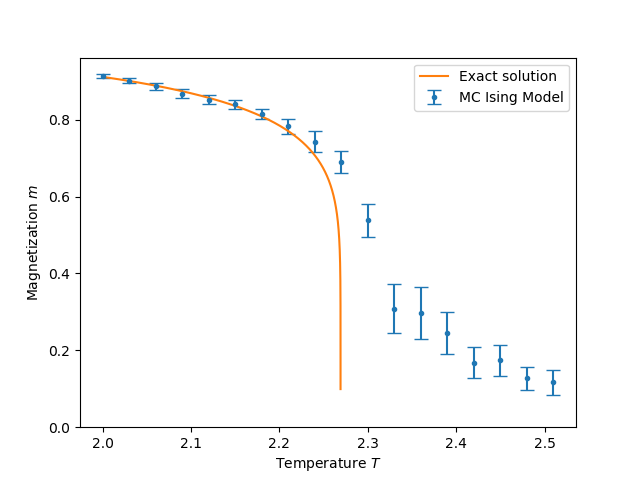
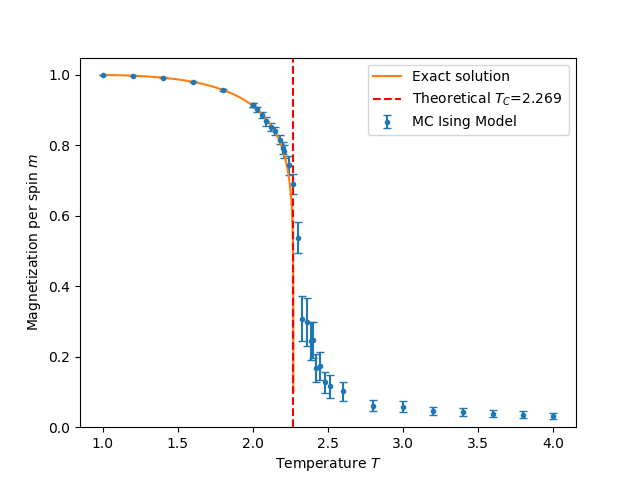
updated the plot making

diff --git a/src/data_analysis.py b/src/data_analysis.py
@@ -25,85 +25,118 @@ def powerlaw(t,a,b):
 def func_linear(x,a,b):
     return a + b*x
 
-def find_critical_exponents(reduced_temperature, quantity_data, error_quantity_data):
+def find_critical_exponents(temperature, quantity_data, error_quantity_data):
+    Tc = 2.269
+    mask = (temperature<Tc)
+    temperature = temperature[mask]
+    quantity_data = quantity_data[mask]
+    error_quantity_data = error_quantity_data[mask]
+    reduced_temperature = np.abs(temperature-Tc)
     "Linear log-log fit to the given quantity. Used to obtain critical exponents"
     xdata  = np.log(reduced_temperature)
     ydata  = np.log(quantity_data)
     yerror = np.log(error_quantity_data)
     popt, pcov = curve_fit(func_linear, xdata, ydata, sigma=yerror, bounds=([-np.inf,-5.],[np.inf,5.]))
     perr = np.sqrt(np.diag(pcov))
-    print(popt, perr)
+    # print(popt, perr)
     print("critical exponent = ",popt[1], "+-",perr[1])
     plt.figure()
     plt.errorbar(x=reduced_temperature, y=quantity_data, yerr=error_quantity_data, marker=".",linestyle="")
     plt.plot(reduced_temperature, np.exp(func_linear(np.log(reduced_temperature), *popt)))
     plt.plot(reduced_temperature, np.exp(func_linear(np.log(reduced_temperature), popt[0]+perr[0], popt[1]-perr[1])), linestyle='dashed', color='red')
     plt.plot(reduced_temperature, np.exp(func_linear(np.log(reduced_temperature), popt[0]-perr[0], popt[1]+perr[1])), linestyle='dashed', color='red')
+    plt.xlabel(r"$|T-Tc|$")
     plt.show()
     return popt[1], perr[1]
 
 def exact_magnetization(temperature):
     return (1. - (np.sinh(2./temperature))**-4 )**(1./8.)
 
-path="generated\\data\\2021-04-22t005212292006\\"
-filename_tau= "taut.npy"
-filename_m = "mt.npy"
-filename_e = "et.npy"
-filename_chi= "chit.npy"
-filename_c = "ct.npy"
+mainpath="generated\\data\\"
+folders = ["2021-04-22t005212292006\\", "2021-04-22t003241375617\\"]
+temperature= np.array([])
+tau= np.array([])
+magnetization= np.array([])
+energy= np.array([])
+magnetic_susceptibility = np.array([])
+specific_heat =np.array([])
 
-settings = load_json(path, "settings.json")
-temperature = np.arange(settings["tmin"], settings["tmax"] + settings["t_step_size"]/2., settings["t_step_size"])
-#temperature = np.arange(settings["tmin"], settings["tmax"], settings["t_step_size"])
-tau, error_tau = np.load(path+filename_tau)[:,0],np.load(path+filename_tau)[:,1]
-magnetization, error_magnetization = np.load(path+filename_m)[:,0],np.load(path+filename_m)[:,1]
-energy, error_energy = np.load(path+filename_e)[:,0],np.load(path+filename_e)[:,1]
-magnetic_suscepticility, error_magnetic_suscepticility = np.load(path+filename_chi)[:,0],np.load(path+filename_chi)[:,1]
-specific_heat, error_specific_heat = np.load(path+filename_c)[:,0],np.load(path+filename_c)[:,1]
+error_temperature= np.array([])
+error_tau= np.array([])
+error_magnetization= np.array([])
+error_energy= np.array([])
+error_magnetic_susceptibility = np.array([])
+error_specific_heat =np.array([])
+
+for folder in folders:
+    path = mainpath+folder
+    filename_tau= "taut.npy"
+    filename_m = "mt.npy"
+    filename_e = "et.npy"
+    filename_chi= "chit.npy"
+    filename_c = "ct.npy"
+    
+    settings = load_json(path, "settings.json")
+    temperature                                            = np.append(temperature,             np.arange(settings["tmin"], settings["tmax"] + settings["t_step_size"]/2., settings["t_step_size"]) )
+    tau, error_tau                                         = np.append(tau,                     np.load(path+filename_tau)[:,0]) ,np.append(error_tau,                      np.load(path+filename_tau)[:,1])
+    magnetization, error_magnetization                     = np.append(magnetization,           np.load(path+filename_m)[:,0])   ,np.append(error_magnetization,            np.load(path+filename_m)[:,1] )
+    energy, error_energy                                   = np.append(energy,                  np.load(path+filename_e)[:,0])   ,np.append(error_energy,                   np.load(path+filename_e)[:,1])
+    magnetic_susceptibility, error_magnetic_susceptibility = np.append(magnetic_susceptibility, np.load(path+filename_chi)[:,0]) ,np.append(error_magnetic_susceptibility,  np.load(path+filename_chi)[:,1])
+    specific_heat, error_specific_heat                     = np.append(specific_heat,           np.load(path+filename_c)[:,0])   ,np.append(error_specific_heat,            np.load(path+filename_c)[:,1])
 
 continuous_step_size = 0.001*settings["t_step_size"]
 continuous_temperature = np.append(np.arange(settings["tmin"], 2.265, continuous_step_size), np.arange(2.265,2.27,0.00000001))
 
 m="."
 ls=""
-cs=5
+cs=3
 
 plt.figure()
-plt.errorbar(x=temperature, y=tau, yerr= error_tau, marker=m, linestyle=ls, capsize=cs)
+plt.errorbar(x=temperature, y=tau, yerr= error_tau, marker=m, linestyle=ls, capsize=cs, label="MC Ising Model")
+plt.axvline(2.269, color="red", ls="dashed", label=r"Theoretical $T_C$=2.269 ")
 plt.xlabel(r"Temperature $T$")
 plt.ylabel(r"Correlation time $\tau$")
+plt.legend()
 plt.savefig("figures\\correlation_time.png")
 
 plt.figure()
 plt.errorbar(x=temperature, y=magnetization, yerr= error_magnetization, marker=m, linestyle=ls, capsize=cs, label="MC Ising Model")
 plt.plot(continuous_temperature, exact_magnetization(continuous_temperature), label="Exact solution")
+plt.axvline(2.269, color="red", ls="dashed", label=r"Theoretical $T_C$=2.269 ")
 plt.xlabel(r"Temperature $T$")
-plt.ylabel(r"Magnetization $m$")
+plt.ylabel(r"Magnetization per spin $m$")
 plt.legend()
 plt.axis(ymin=0)
 plt.savefig("figures\\magnetization.png")
 
 plt.figure()
-plt.errorbar(x=temperature, y=energy, yerr= error_energy, marker=m, linestyle=ls, capsize=cs)
+plt.errorbar(x=temperature, y=energy, yerr= error_energy, marker=m, linestyle=ls, capsize=cs, label="MC Ising Model")
+plt.axvline(2.269, color="red", ls="dashed", label=r"Theoretical $T_C$=2.269 ")
 plt.xlabel(r"Temperature $T$")
-plt.ylabel(r"Energy $e$")
+plt.ylabel(r"Energy per spin $e$")
+plt.legend()
 plt.savefig("figures\\energy.png")
 
 plt.figure()
-plt.errorbar(x=temperature, y=magnetic_suscepticility, yerr= error_magnetic_suscepticility, marker=m, linestyle=ls, capsize=cs)
+plt.errorbar(x=temperature, y=magnetic_susceptibility, yerr= error_magnetic_susceptibility, marker=m, linestyle=ls, capsize=cs, label="MC Ising Model")
+plt.axvline(2.269, color="red", ls="dashed", label=r"Theoretical $T_C$=2.269 ")
 plt.xlabel(r"Temperature $T$")
-plt.ylabel(r"Magnetic susceptibility $\chi_M$")
+plt.ylabel(r"Magnetic susceptibility per spin $\chi_M$")
+plt.legend()
 plt.axis(ymin=0)
-plt.savefig("figures\\magnetics_susceptibility.png")
+plt.savefig("figures\\magnetic_susceptibility.png")
 
 plt.figure()
-plt.errorbar(x=temperature, y=specific_heat, yerr= error_specific_heat, marker=m, linestyle=ls, capsize=cs)
+plt.errorbar(x=temperature, y=specific_heat, yerr= error_specific_heat, marker=m, linestyle=ls, capsize=cs, label="MC Ising Model")
+plt.axvline(2.269, color="red", ls="dashed", label=r"Theoretical $T_C$=2.269 ")
 plt.xlabel(r"Temperature $T$")
-plt.ylabel(r"Specific heat $C$")
-plt.axis(ymin=0)
+plt.ylabel(r"Specific heat per spin $C$")
+plt.legend()
+plt.axis(ymin=0, ymax=2)
 plt.savefig("figures\\specific_heat.png")
 
+# find_critical_exponents(temperature, specific_heat, error_specific_heat)
+# find_critical_exponents(temperature, magnetic_susceptibility, error_magnetic_susceptibility)
+# find_critical_exponents(temperature, magnetization, error_magnetization)
 
 plt.show()
-
-
